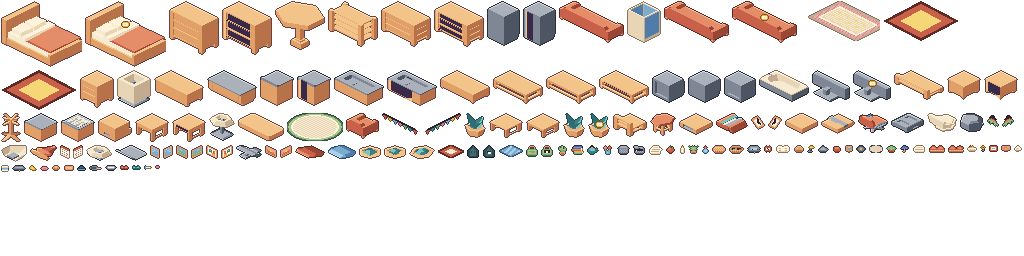
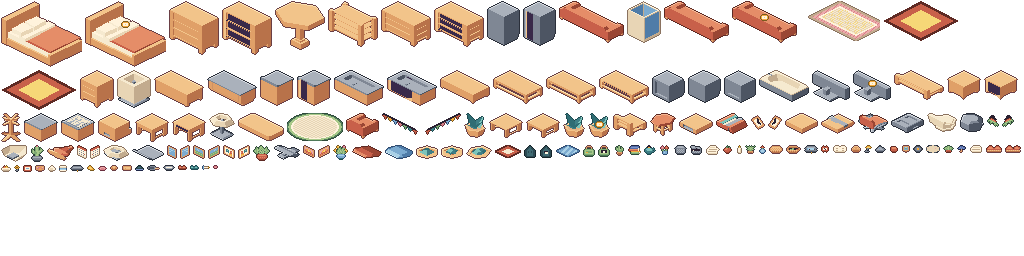
AI-4: three new floor plant frames (fern, cactus, flower), needs kind registration (task 1c)

Changed region(s): [[0.0, 0.5625, 1.0, 0.6875]]

diff --git a/tools/pixelart/props2.py b/tools/pixelart/props2.py
@@ -10,6 +10,9 @@ from dsl import build, col
 from props import L
 from yard import outline, new
 T = {
+ 'pottedFern': ["......gG........", "..g..gGGg...g...", "..gG.gGgGg.gG...", ".ggGgGgGgGgGgg..", "gGgGGgGhGgGGgGg.", "gGgGhgGGgGhgGgG.", ".ggGgGhGgGgGgg..", "..gg.gGgGg.gg...", "....rrrrrrrr....", "...rRRRRRRRRr...", "...rrrrrrrrrr...", "...rRrRrRrRrr...", "....rrrrrrrr....", ".....qqqqqq....."],
+ 'pottedCactus': [".....pP.....", "....gGGg....", "....gGGg.g..", ".g..gGGg.gG.", ".gG.gGGggGGg", ".gGggGGGGGg.", ".gGgggGGgg..", "..ggggGGg...", "....gGGg....", "....gGGg....", "..kkkkkkkk..", ".kKKKKKKKKk.", ".kkkkkkkkkk.", "..kkkkkkkk..", "...jjjjjj..."],
+ 'pottedFlower': ["...yY....pP...", "...yy.g..pp...", "....gGg.gGg...", ".y..gGggGg.y..", "yY.gGgGgGgGyY.", ".y.gGgGGgGg.y.", "..gGgGgGgGgg..", "...gGgghgGg...", "....bbbbbb....", "...bBBBBBBb...", "...bbbbbbbb...", "....bbbbbb....", ".....uuuu....."],
  'teacup': ["..ww..", ".wwww.", "wcccwo", "wcccwo", ".ddd.."],
  'vase': ["..r..", ".rRr.", "..g..", ".bBb.", "bBBBb", "bBBBb", ".bbb."],
  'photoFrame1': ["nnnnnn", "nbBBbn", "nbggbn", "nbbbbn", "nnnnnn", "..mm.."],

diff --git a/docs/status/AI-4.md b/docs/status/AI-4.md
@@ -5,6 +5,7 @@
 ## Done (Phase 6)
 - Task 1(b) rugs: `prop/rugRect` (3x2 tile diamond, cream field, thin rose band, sparse butter dots) and `prop/rugRound` (2x2, sage ring on cream) are now hand-built, low contrast and thin. Both pivot = frame centre (homeProps anchors at footprint centre). Source: tools/pixelart/props2.py (rug_rect, rug_round).
 - Task 1(a) bed: `spot/bed/closed|open` hand-built (headboard, two pillows, terracotta blanket, footboard), 83x68, pivot = footprint top vertex (inferred from the old Kenney frame's pivot maths, not yet seen in game). Source: tools/pixelart/bed.py. Order to regenerate: props2.py, spots.py, bed.py, then tools/pack/pack.py.
+- Task 1(c) wiring check, then plants: new standing frames `prop/pottedFern`, `prop/pottedCactus`, `prop/pottedFlower` (1x1, pivot bottom centre, pot colours terracotta/stone/blue). NOT in game yet: they need registering as kinds (see Requests). Source: tools/pixelart/props2.py (dict T).
 ## Verified
 - `python3 tools/check-frames/check.py assets/frames/room-slice --max 96` -> "141 files, 0 problems".
 - `npm run art:sheet` -> "missing frames: none"; rugs checked by eye in docs/art/evidence/art-sheet.png; bed frames checked enlarged in isolation only (art-sheet does not draw spots).
@@ -14,7 +15,7 @@
 ## Weaknesses (honest, from art-sheet)
 - Same teal spiky plant still used 2-3 times per room; windows are flat yellow-striped squares (no curtains or floor light); rooms still read 18-29 props with big empty floor; no contact shadows; floor-level pieces like the small red tiles look like stray markers.
 ## Requests
-- AI-2: plant placements use one kind (`pottedPlant`) up to 3x per room; once I add `plantSmall`-style variants please vary by kind/id, or tell me the extra kind names to add.
+- AI-2/AI-3 (needed to make 1c visible): add `pottedFern`, `pottedCactus`, `pottedFlower` to src/content/worldKinds.ts as `B(1, 1, 4, { sym: true })` (same as pottedPlant) and swap about half of the `pottedPlant` placements in worldPropsA/B.ts so no room repeats one plant more than once. Frames already exist.
 - AI-1: `npm run shots` needs a Chromium; none available to me.
 ## Next
-- Owner or AI-1: confirm bed sits right on the bedroom wall in a real Focus shot. 1(c) plant variants, 1(d) windows with curtains + floor light patch, 1(e) contact shadows and wall decor density.
+- Owner or AI-1: confirm bed sits right on the bedroom wall in a real Focus shot. 1(c) wiring check, then plant variants, 1(d) windows with curtains + floor light patch, 1(e) contact shadows and wall decor density.
